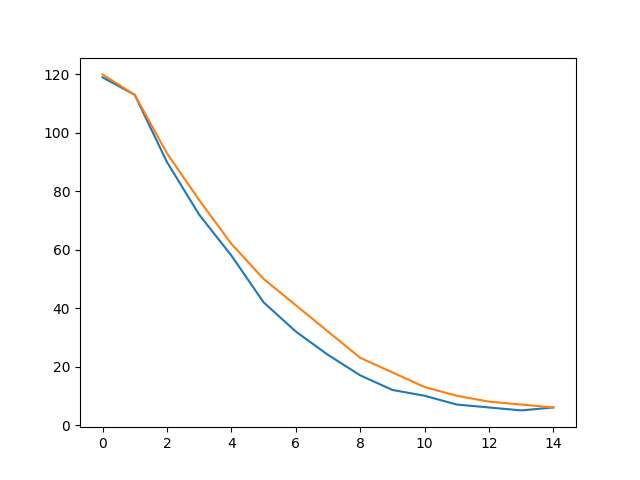
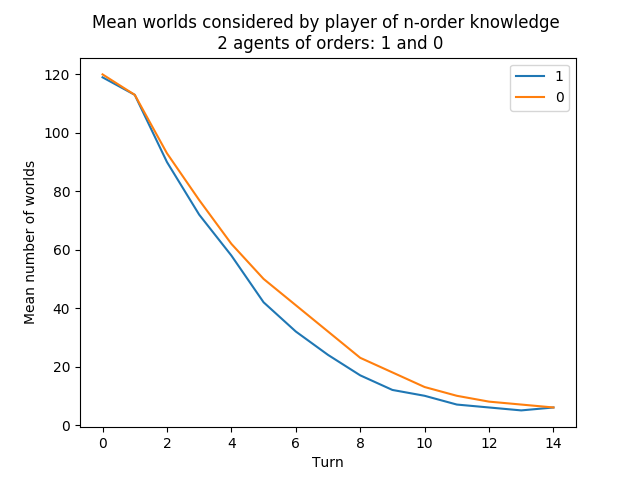
pushing second edition of plots

diff --git a/plots/find_means.py b/plots/find_means.py
@@ -55,27 +55,43 @@ results.append(lib['221100']['2'])
 results.append(lib['221100']['1'])
 results.append(lib['221100']['0'])
 
-plt.plot(results[0])
-plt.plot(results[1])
+plt.title("Mean worlds considered by player of n-order knowledge \n 2 agents of orders: 1 and 0")
+plt.xlabel('Turn')
+plt.ylabel('Mean number of worlds')
+plt.plot(results[0], label= '1')
+plt.plot(results[1], label= '0')
+plt.legend(loc="upper right")
 
 plt.savefig(f"plots{s}1100plot.png")
 
 plt.clf()
-plt.plot(results[2])
-plt.plot(results[3])
+plt.title("Mean worlds considered by player of n-order knowledge \n 2 agents of orders: 2 and 0")
+plt.xlabel('Turn')
+plt.ylabel('Mean number of worlds')
+plt.plot(results[2], label= '2')
+plt.plot(results[3], label= '0')
+plt.legend(loc="upper right")
 
 plt.savefig(f"plots{s}2200plot.png")
 
 plt.clf()
-plt.plot(results[4])
-plt.plot(results[5])
+plt.title("Mean worlds considered by player of n-order knowledge \n 2 agents of orders: 2 and 1")
+plt.xlabel('Turn')
+plt.ylabel('Mean number of worlds')
+plt.plot(results[4], label= '2')
+plt.plot(results[5], label= '1')
+plt.legend(loc="upper right")
 
 plt.savefig(f"plots{s}2211plot.png")
 
 plt.clf()
-plt.plot(results[6])
-plt.plot(results[7])
-plt.plot(results[8])
+plt.title("Mean worlds considered by player of n-order knowledge \n 2 agents of orders: 2, 1 and 0")
+plt.xlabel('Turn')
+plt.ylabel('Mean number of worlds')
+plt.plot(results[6], label= '2')
+plt.plot(results[7], label= '1')
+plt.plot(results[8], label= '0')
+plt.legend(loc="upper right")
 
 plt.savefig(f"plots{s}221100plot.png")
 
